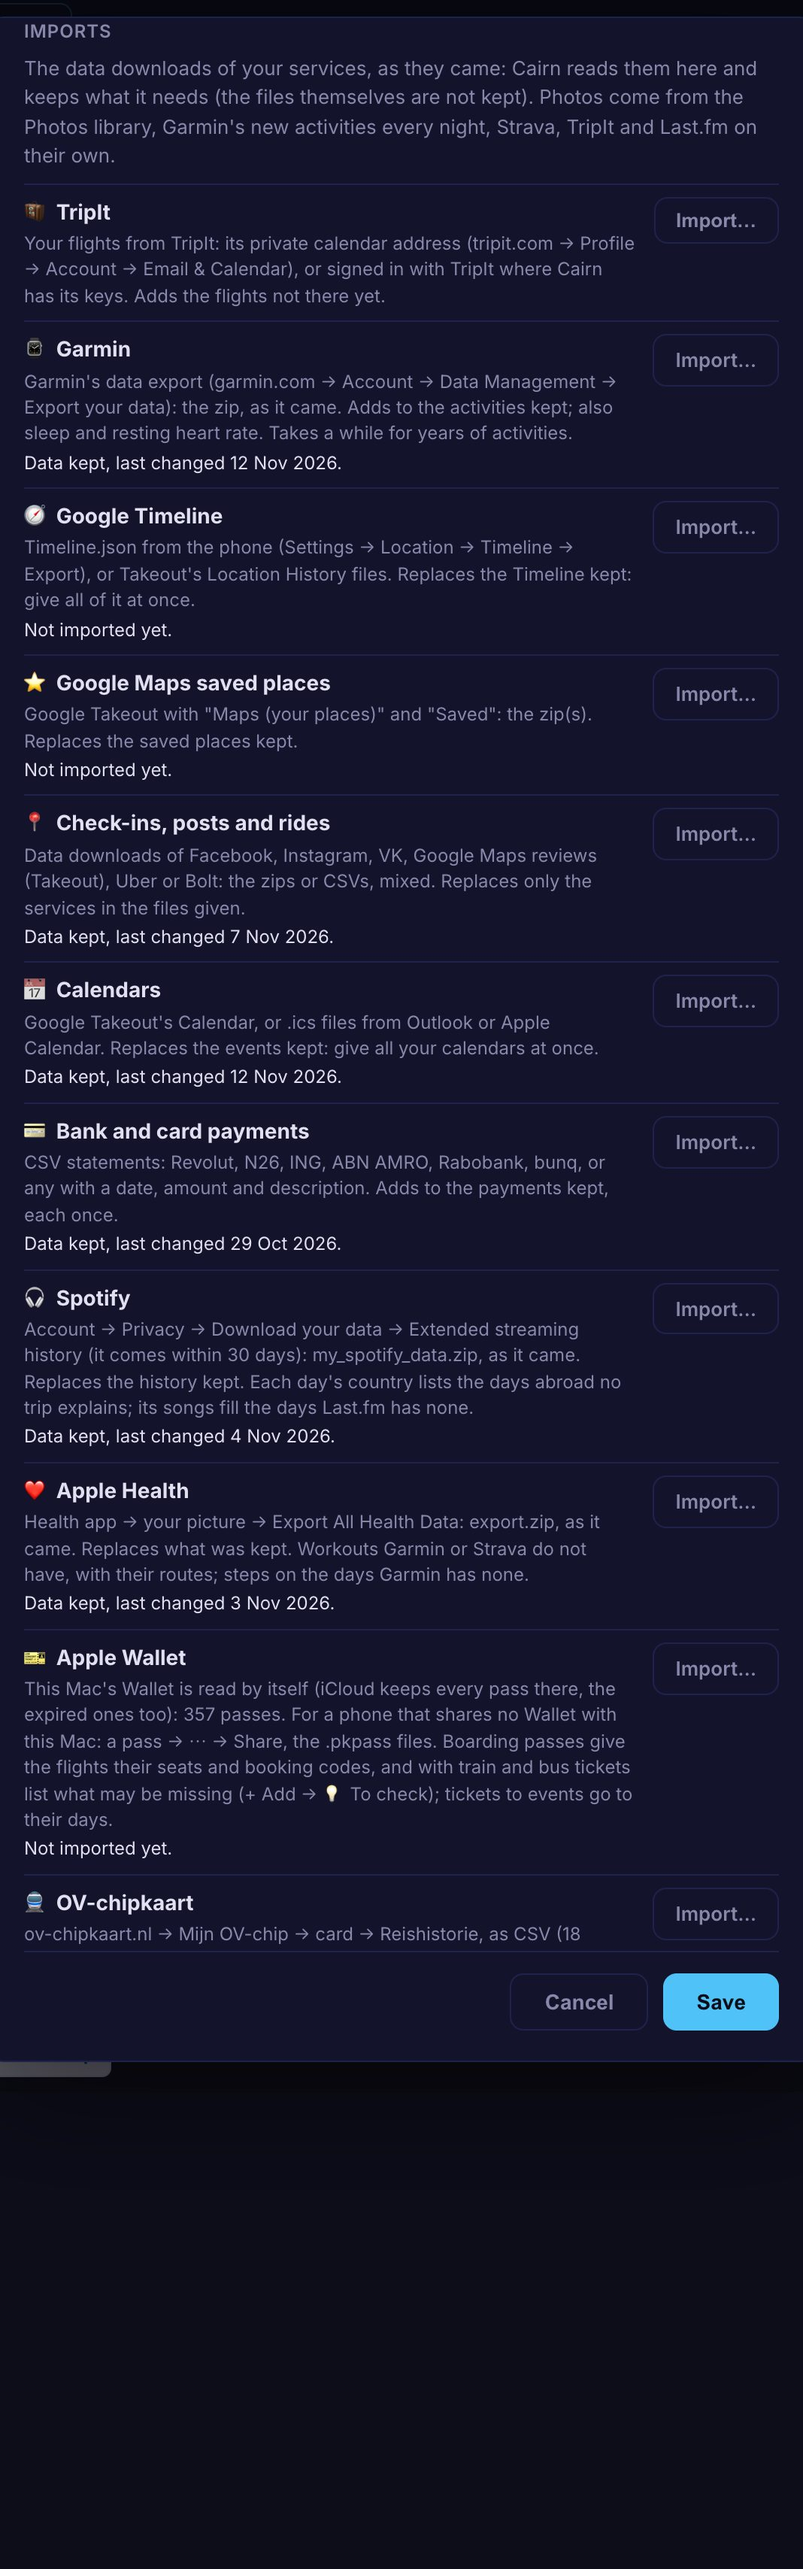
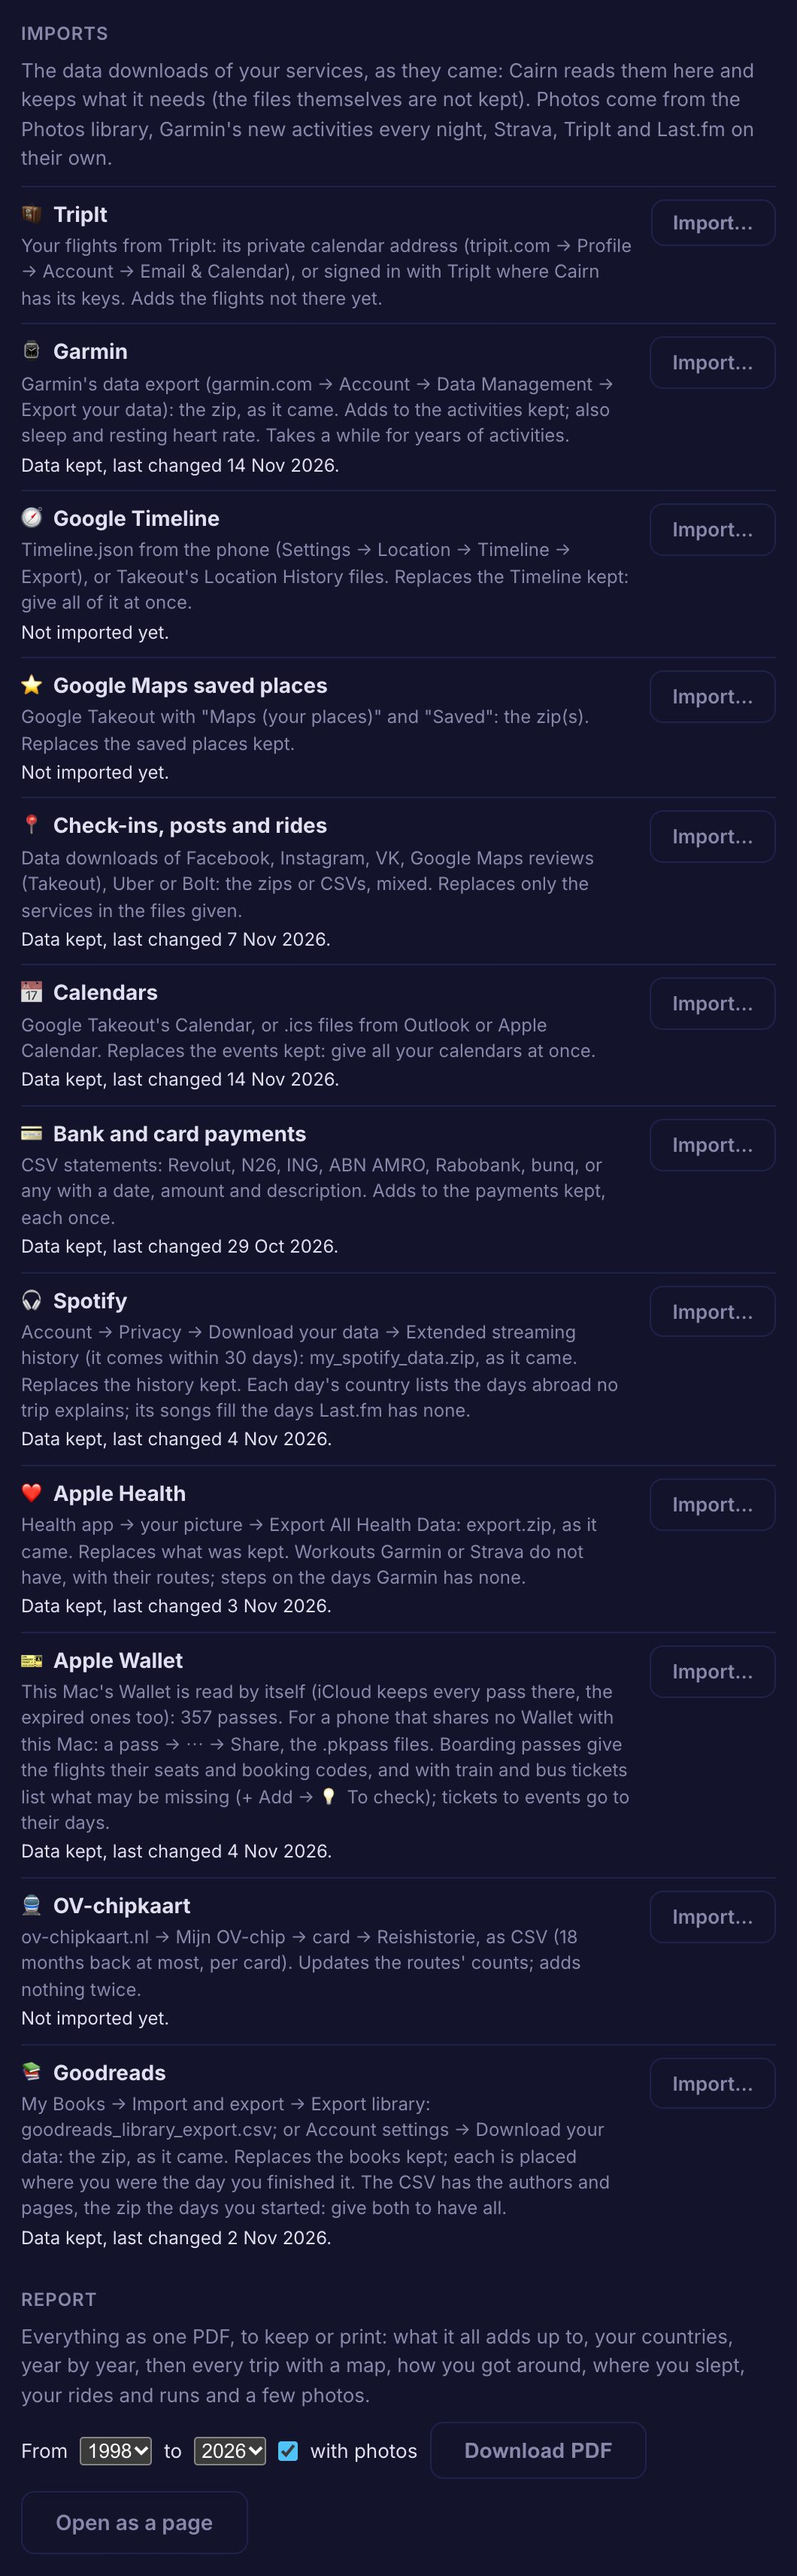
Curiosities and Settings screenshots whole, without the empty space below; every source in the README's diagram; Apple Wallet in Settings tells when a pass last came instead of "Not imported yet"

diff --git a/test/wallet.test.js b/test/wallet.test.js
@@ -1,6 +1,10 @@
 'use strict';
 const test = require('node:test');
 const assert = require('node:assert');
+const fs = require('fs');
+const os = require('os');
+const path = require('path');
+const wallet = require('../wallet');
 const { bcbp, parse, readJson, yours } = require('../wallet');
 
 test('a boarding pass\'s barcode: route, flight, day of the year, seat and booking code', () => {
@@ -30,4 +34,17 @@ test('your passes and those of the people you travel with', () => {
   const mine = n => yours({ passenger: n }, ['Jane Doe']);
   assert.deepStrictEqual(['DOE/JANEMRS', 'J.DOE', 'Doe/Jane A', 'DOE/JOHN', 'Johnny Doe', 'passenger_list', ''].map(mine),
     [true, true, true, false, false, true, true]);
+});
+
+test('when a pass last came: the newest of the Wallet folder and the passes given; none, nothing', () => {
+  const dir = fs.mkdtempSync(path.join(os.tmpdir(), 'cairn-wallet-')), cards = path.join(dir, 'Cards'), given = path.join(dir, 'given');
+  fs.mkdirSync(path.join(cards, 'a.pkpass'), { recursive: true });
+  fs.mkdirSync(given);
+  const w = wallet.create({ dir: () => cards, uploads: given, log: () => {} });
+  fs.utimesSync(path.join(cards, 'a.pkpass'), new Date('2025-01-02T03:04:05Z'), new Date('2025-01-02T03:04:05Z'));
+  assert.strictEqual(w.changed(), '2025-01-02T03:04:05.000Z');
+  fs.writeFileSync(path.join(given, 'b.pkpass'), 'x');
+  fs.utimesSync(path.join(given, 'b.pkpass'), new Date('2026-06-07T08:09:10Z'), new Date('2026-06-07T08:09:10Z'));
+  assert.strictEqual(w.changed(), '2026-06-07T08:09:10.000Z');
+  assert.strictEqual(wallet.create({ dir: () => '', uploads: path.join(dir, 'none'), log: () => {} }).changed(), '');
 });

diff --git a/app.js b/app.js
@@ -1681,7 +1681,7 @@ const imports = require('./uploads').create({
     health: { file: path.join(DATA_DIR, 'health.json'), label: '❤ Apple Health', accept: '.zip', what: 'Health app → your picture → Export All Health Data: export.zip, as it came',
       note: 'Replaces what was kept. Workouts Garmin or Strava do not have, with their routes; steps on the days Garmin has none.',
       run: files => py('health.py', [files.find(f => /\.zip$/i.test(f)) || files[0], ...outTo('health.json')]) },
-    wallet: { label: '🎫 Apple Wallet', accept: '.pkpass,.zip',
+    wallet: { label: '🎫 Apple Wallet', accept: '.pkpass,.zip', changed: () => wallet.changed(),
       get what() { return wallet.available() ? `This Mac's Wallet is read by itself (iCloud keeps every pass there, the expired ones too): ${wallet.list().length} passes. For a phone that shares no Wallet with this Mac: a pass → ⋯ → Share, the .pkpass files`
         : 'A pass → ⋯ → Share: the .pkpass files (or a zip of them)'; },
       note: 'Boarding passes give the flights their seats and booking codes, and with train and bus tickets list what may be missing (+ Add → 💡 To check); tickets to events go to their days.',

diff --git a/uploads.js b/uploads.js
@@ -9,7 +9,7 @@ const path = require('path');
 
 const BATCH = /^[a-z0-9]{8,32}$/;
 
-// sources: { key: { label, what, accept, note, file (what it writes, for when it was last changed, also by the script
+// sources: { key: { label, what, accept, note, changed() (when its data last changed, for one read by itself), file (what it writes, for when it was last changed, also by the script
 // run by hand), run: async files => message } }
 function create({ dir, statusFile, sources, log = console.log }) {
   const running = new Map();  // key -> since (ms)
@@ -61,7 +61,7 @@ function create({ dir, statusFile, sources, log = console.log }) {
     const status = readStatus();
     const changed = f => { try { return fs.statSync(f).mtime.toISOString(); } catch (_) { return ''; } };
     return Object.entries(sources).map(([key, s]) => ({ key, label: s.label, what: s.what, accept: s.accept || '', note: s.note || '',
-      running: running.has(key), last: status[key] || null, changed: s.file ? changed(s.file) : '' }));
+      running: running.has(key), last: status[key] || null, changed: s.changed ? s.changed() : s.file ? changed(s.file) : '' }));
   };
   return { receive, start, list };
 }

diff --git a/test/uploads.test.js b/test/uploads.test.js
@@ -33,3 +33,17 @@ test('a batch of files is read by its import, then removed; how it went is kept'
   assert.strictEqual(u.start('notes', 'zzzzzzzz').status, 400);  // nothing uploaded
   await assert.rejects(u.receive('nope', 'abcdefgh', 'a', Readable.from(['x'])), /no import called nope/);
 });
+
+test('a source read by itself tells when its data last changed; one that writes a file, by that file', () => {
+  const dir = fs.mkdtempSync(path.join(os.tmpdir(), 'cairn-uploads-')), kept = path.join(dir, 'kept.json');
+  fs.writeFileSync(kept, '{}');
+  const u = uploads.create({ dir: path.join(dir, 'uploads'), statusFile: path.join(dir, 'uploads.json'), log: () => {}, sources: {
+    passes: { label: 'Passes', changed: () => '2026-03-04T05:06:07.000Z', run: async () => '' },
+    books: { label: 'Books', file: kept, run: async () => '' },
+    nothing: { label: 'Nothing yet', file: path.join(dir, 'none.json'), run: async () => '' }
+  } });
+  const [passes, books, nothing] = u.list();
+  assert.strictEqual(passes.changed, '2026-03-04T05:06:07.000Z');
+  assert.strictEqual(books.changed, fs.statSync(kept).mtime.toISOString());
+  assert.strictEqual(nothing.changed, '');
+});

diff --git a/wallet.js b/wallet.js
@@ -165,7 +165,9 @@ function create({ dir = () => 'auto', uploads, names = () => [], log = console.l
     fs.writeFileSync(path.join(uploads, `${String(d.serialNumber || path.basename(file, '.pkpass')).replace(/[^\w.-]+/g, '_').slice(0, 80)}.pkpass`), buf);
     return d;
   }
-  return { list, keep, folder, available: () => !!folder() && fs.existsSync(folder()) };
+  // when a pass last came or changed, read by itself or given: for the settings' "last changed"
+  const changed = () => { const t = entries().reduce((m, e) => Math.max(m, e.mtime), 0); return t ? new Date(t).toISOString() : ''; };
+  return { list, keep, folder, changed, available: () => !!folder() && fs.existsSync(folder()) };
 }
 
 module.exports = { create, parse, bcbp, readJson, dayOf, dayOfYear, yours };

diff --git a/README.md b/README.md
@@ -106,6 +106,9 @@ flowchart LR
     timeline["Google Maps<br>Timeline"]
     lastfm["Last.fm"]
     things["Things to-dos"]
+    downloads["Data downloads: Spotify,<br>Apple Health, bank, check-ins,<br>calendars, OV-chipkaart, Goodreads"]
+    wallet["Apple Wallet"]
+    github["GitHub commits"]
   end
 
   subgraph importers["Importers"]
@@ -114,6 +117,7 @@ flowchart LR
     gpy["imports/garmin.py<br>(nightly 02:30)"]
     srv["Cairn's own fetchers<br>(Strava, Last.fm, weather)"]
     ppy["imports/photos.py,<br>timeline.py, saved_places.py"]
+    ipy["Settings → Imports<br>(imports/*.py)"]
   end
 
   subgraph data["data/ (plain JSON)"]
@@ -121,6 +125,7 @@ flowchart LR
     acts["garmin, strava, tracks,<br>wellness, weather"]
     pics["photo_points, timeline,<br>saved_places"]
     more["lastfm, climb_ascents,<br>drives"]
+    life["payments, check-ins,<br>books, music, code, health"]
   end
 
   subgraph cairn["Cairn server"]
@@ -143,8 +148,11 @@ flowchart LR
   lastfm --> srv --> more
   photos --> ppy --> pics
   timeline --> ppy
+  downloads --> ipy --> life
+  wallet --> ipy
+  github --> once
   things -. read-only .-> build
-  trav & acts & pics & more --> places --> build
+  trav & acts & pics & more & life --> places --> build
   build --> map & tp & st & plan
   fm -. writes .-> out["Calendar events, check-in to-dos,<br>trip docs, Discord alerts"]
 ```
